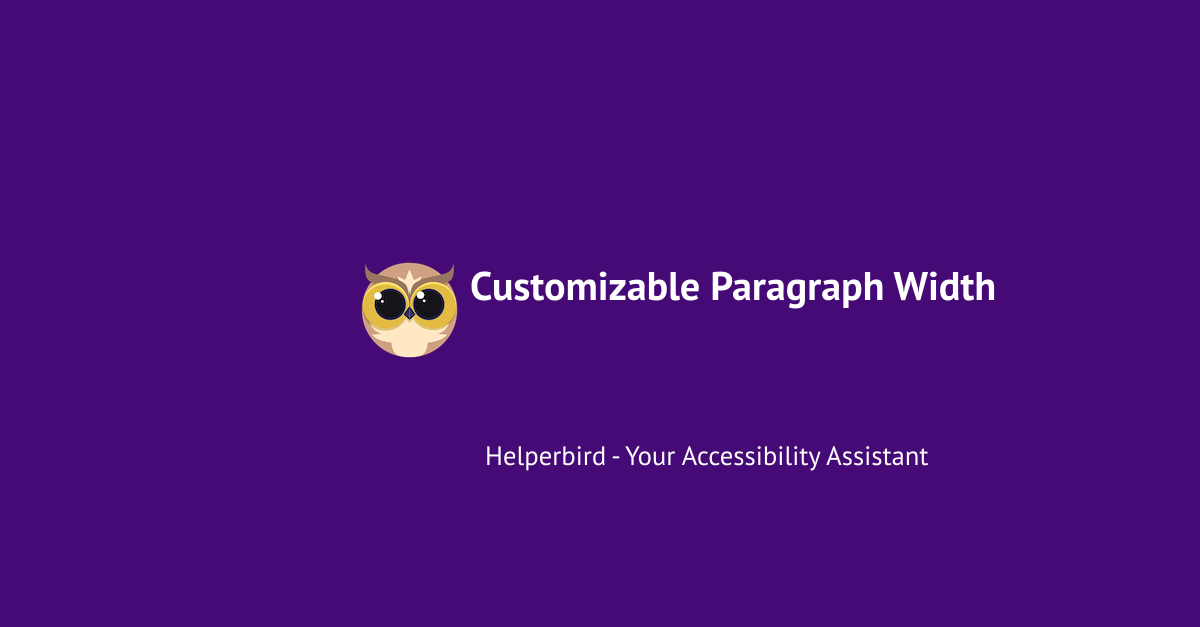
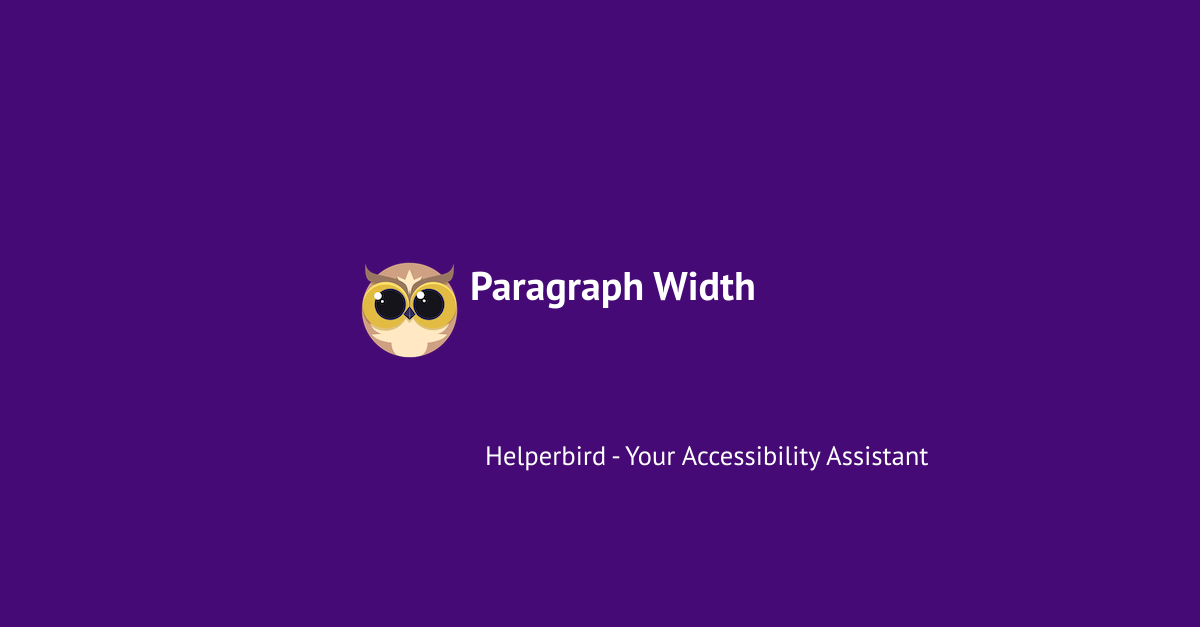
Deploying to gh-pages from  @ 452da89fd4ff60e3438203d6a54f587d20e65d37 🚀

Changed region(s): [[0.37, 0.4242, 0.8325, 0.4848]]

diff --git a/features/paragraph-widths/index.html b/features/paragraph-widths/index.html
@@ -4,7 +4,7 @@
   <head>
     <meta charset="utf-8" />
     <meta content="width=device-width, initial-scale=1.0" name="viewport" />
-    <title>Custom Paragraph Width for Better Reading - Helperbird features</title>
+    <title>Custom Paragraph Width for Comfortable Reading - Helperbird features</title>
     <link href="/assets/js/main.css" rel="stylesheet" />
     <script>
       if ('serviceWorker' in navigator) {
@@ -13,24 +13,24 @@
     </script>
 
     <link href="https://www.helperbird.com/features/paragraph-widths/" rel="canonical" />
-    <meta content="Adjust the width of paragraphs for better focus and readability with Helperbird's Customizable Paragraph Width feature. Tailor the text layout to your preferences, reducing eye strain during extended reading sessions on websites and PDFs." name="description" />
+    <meta content="Easily adjust the width of paragraphs with Helperbird's feature. Improve readability and reduce eye strain on websites and PDFs by customizing text layout to your needs." name="description" />
     <meta content="Dyslexia software, Reading Mode for Google Chrome, Voice typing for Chrome, Text to speech for Chrome, text reader, Immersive Reader, dyslexia fonts, accessibility software, dyslexia software, Helperbird for Edge, Helperbird for Firefox, Helperbird for Chrome, Opendyslexic for Chrome, OpenDyslexic" name="keywords" />
 
     <meta name="viewport" content="width=device-width, initial-scale=1, shrink-to-fit=no" />
     <meta content="/assets/images/favicon.png" name="image" />
     <meta content="#5046e4" name="theme-color" />
     <meta content="Helperbird" itemprop="name" />
-    <meta content="Adjust the width of paragraphs for better focus and readability with Helperbird's Customizable Paragraph Width feature. Tailor the text layout to your preferences, reducing eye strain during extended reading sessions on websites and PDFs." itemprop="description" />
+    <meta content="Easily adjust the width of paragraphs with Helperbird's feature. Improve readability and reduce eye strain on websites and PDFs by customizing text layout to your needs." itemprop="description" />
     <meta content="/assets/images/favicon.png" itemprop="image" />
 
     <meta name="twitter:card" content="summary_large_image" />
     <meta name="twitter:site" content="@helperbird" />
     <meta name="twitter:creator" content="@robertjgabriel" />
-    <meta name="twitter:title" content="Custom Paragraph Width for Better Reading - Helperbird" />
+    <meta name="twitter:title" content="Custom Paragraph Width for Comfortable Reading - Helperbird" />
     <meta property="twitter:domain" content="helperbird.com" />
 
     <meta property="twitter:url" content="https://www.helperbird.com/features/paragraph-widths/" />
-    <meta name="twitter:description" content="Adjust the width of paragraphs for better focus and readability with Helperbird's Customizable Paragraph Width feature. Tailor the text layout to your preferences, reducing eye strain during extended reading sessions on websites and PDFs." />
+    <meta name="twitter:description" content="Easily adjust the width of paragraphs with Helperbird's feature. Improve readability and reduce eye strain on websites and PDFs by customizing text layout to your needs." />
 
     <meta name="twitter:image:alt" content="Helperbird promo art with text saying visit Helperbird" />
     <meta name="twitter:image" content="https://www.helperbird.com/features/paragraph-widths/index.png" />
@@ -39,8 +39,8 @@
 
     <meta property="og:locale" content="en_US" />
     <meta property="og:type" content="website" />
-    <meta property="og:title" content="Custom Paragraph Width for Better Reading - Helperbird" />
-    <meta property="og:description" content="Adjust the width of paragraphs for better focus and readability with Helperbird's Customizable Paragraph Width feature. Tailor the text layout to your preferences, reducing eye strain during extended reading sessions on websites and PDFs." />
+    <meta property="og:title" content="Custom Paragraph Width for Comfortable Reading - Helperbird" />
+    <meta property="og:description" content="Easily adjust the width of paragraphs with Helperbird's feature. Improve readability and reduce eye strain on websites and PDFs by customizing text layout to your needs." />
     <meta property="og:url" content="https://www.helperbird.com/features/paragraph-widths/" />
     <meta property="og:site_name" content="Helperbird" />
     <meta property="og:image" content="https://www.helperbird.com/features/paragraph-widths/index.png" />
@@ -2060,9 +2060,9 @@
 
       <div class="rounded-2xl text-black py-24 sm:py-32 sm:py-16 lg:px-4 mb-4">
         <div class="mx-auto max-w-4xl text-center">
-          <h1 class="leading-relaxed font-sans text-4xl font-bold text-black sm:text-6xl">Custom Paragraph Width for Better Reading</h1>
+          <h1 class="leading-relaxed font-sans text-4xl font-bold text-black sm:text-6xl">Custom Paragraph Width for Comfortable Reading</h1>
           <p class="leading-relaxed font-sans mt-6 text-2xl text-black">
-            Adjust the width of paragraphs for better focus and readability with Helperbird's Customizable Paragraph Width feature. Tailor the text layout to your preferences, reducing eye strain during extended reading sessions on websites and PDFs.
+            Easily adjust the width of paragraphs with Helperbird's feature. Improve readability and reduce eye strain on websites and PDFs by customizing text layout to your needs.
           </p>
           <div class="mt-10 flex items-center justify-center gap-x-6">
 
@@ -2105,8 +2105,8 @@
 
           <div class="px-6 py-24 sm:py-32 lg:px-8 mb-12">
             <div class="mx-auto max-w-2xl text-center">
-              <h2 class="text-3xl font-bold text-black sm:text-4xl">Customizable Paragraph Width</h2>
-              <p class="mt-6 text-2xl  text-black">Adjust the width of paragraphs for better focus and readability with Helperbird's Customizable Paragraph Width feature. Tailor the text layout to your preferences, reducing eye strain during extended reading sessions on websites and PDFs.</p>
+              <h2 class="text-3xl font-bold text-black sm:text-4xl">Paragraph Width</h2>
+              <p class="mt-6 text-2xl  text-black">Easily adjust the width of paragraphs with Helperbird's feature. Improve readability and reduce eye strain on websites and PDFs by customizing text layout to your needs.</p>
             </div>
           </div>
 
@@ -2117,33 +2117,27 @@
                 <div class="lg:max-w-lg text-black">
 
               
-                  <h2 class="leading-relaxed font-display text-2xl mb-6 mt-12 font-semibold text-gray-800">Tell Me About This feature</h2>
-<p class="leading-relaxed font-display mb-4 mt-4 text-lg text-gray-900">Enhance your reading experience with Helperbird's paragraph width setting feature.</p>
-<p class="leading-relaxed font-display mb-4 mt-4 text-lg text-gray-900">Easily adjust the width of paragraphs on PDFs and websites to fit your screen and personal preference.</p>
-<p class="leading-relaxed font-display mb-4 mt-4 text-lg text-gray-900">Improve readability and reduce eye strain with our user-friendly browser extension.</p>
+                  <h2 class="leading-relaxed font-display text-2xl mb-6 mt-12 font-semibold text-gray-800">About This Feature</h2>
+<p class="leading-relaxed font-display mb-4 mt-4 text-lg text-gray-900">Helperbird's Paragraph Width feature lets you easily adjust the width of paragraphs on websites and PDFs. Make the text fit your screen and personal preferences for a better reading experience.</p>
 <h2 class="leading-relaxed font-display text-2xl mb-6 mt-12 font-semibold text-gray-800">Benefits</h2>
-<p class="leading-relaxed font-display mb-4 mt-4 text-lg text-gray-900">The benefits of Helperbird's paragraph width setting feature are:</p>
-<h3 class="leading-relaxed font-display text-xl mb-4 mt-10 font-semibold text-gray-700">Adjust the width of paragraphs</h3>
-<p class="leading-relaxed font-display mb-4 mt-4 text-lg text-gray-900">It allows users to adjust the width of paragraphs on PDFs and websites to fit their screen and personal preference.</p>
-<h3 class="leading-relaxed font-display text-xl mb-4 mt-10 font-semibold text-gray-700">Improve readability</h3>
-<p class="leading-relaxed font-display mb-4 mt-4 text-lg text-gray-900">It improves readability by making text more legible and comfortable to read.</p>
-<h3 class="leading-relaxed font-display text-xl mb-4 mt-10 font-semibold text-gray-700">Reduce eye strain</h3>
-<p class="leading-relaxed font-display mb-4 mt-4 text-lg text-gray-900">It reduces eye strain and fatigue by allowing users to adjust the width of text to their preference.</p>
+<h3 class="leading-relaxed font-display text-xl mb-4 mt-10 font-semibold text-gray-700">Adjust Paragraph Width</h3>
+<p class="leading-relaxed font-display mb-4 mt-4 text-lg text-gray-900">Change the width of paragraphs to fit your screen and personal preference.</p>
+<h3 class="leading-relaxed font-display text-xl mb-4 mt-10 font-semibold text-gray-700">Improve Readability</h3>
+<p class="leading-relaxed font-display mb-4 mt-4 text-lg text-gray-900">Make text more comfortable to read by adjusting its width.</p>
+<h3 class="leading-relaxed font-display text-xl mb-4 mt-10 font-semibold text-gray-700">Reduce Eye Strain</h3>
+<p class="leading-relaxed font-display mb-4 mt-4 text-lg text-gray-900">Lower eye strain and fatigue by customizing text width to your liking.</p>
 <h2 class="leading-relaxed font-display text-2xl mb-6 mt-12 font-semibold text-gray-800">Features</h2>
 <ul class="leading-relaxed list-disc list-inside mt-4 space-y-2 pl-6 text-lg font-display ml-6 mb-8 text-gray-900">
-<li class="leading-relaxed mb-2 text-lg font-display text-gray-900 flex items-center">Adjust the width of paragraphs on PDFs and websites.</li>
+<li class="leading-relaxed mb-2 text-lg font-display text-gray-900 flex items-center">Adjust the width of paragraphs on websites and PDFs.</li>
 <li class="leading-relaxed mb-2 text-lg font-display text-gray-900 flex items-center">Set the width of paragraphs to fit your screen.</li>
-<li class="leading-relaxed mb-2 text-lg font-display text-gray-900 flex items-center">Pick the color of the paragraph background.</li>
-<li class="leading-relaxed mb-2 text-lg font-display text-gray-900 flex items-center">Pick the color of the paragraph text.</li>
-<li class="leading-relaxed mb-2 text-lg font-display text-gray-900 flex items-center">Pick the color of the paragraph border.</li>
+<li class="leading-relaxed mb-2 text-lg font-display text-gray-900 flex items-center">Choose the color of the paragraph background.</li>
+<li class="leading-relaxed mb-2 text-lg font-display text-gray-900 flex items-center">Choose the color of the paragraph text.</li>
+<li class="leading-relaxed mb-2 text-lg font-display text-gray-900 flex items-center">Choose the color of the paragraph border.</li>
 </ul>
-<h2 class="leading-relaxed font-display text-2xl mb-6 mt-12 font-semibold text-gray-800">Is this a Helperbird Pro feature?</h2>
+<h2 class="leading-relaxed font-display text-2xl mb-6 mt-12 font-semibold text-gray-800">Is This a Helperbird Pro Feature?</h2>
 <p class="leading-relaxed font-display mb-4 mt-4 text-lg text-gray-900">Yes, this is a Helperbird Pro feature.</p>
-<p class="leading-relaxed font-display mb-4 mt-4 text-lg text-gray-900">Wait no more! Here comes the Helperbird paragraph width. It automatically converts big text blocks in websites into columns, which are easier and more relaxed to read.</p>
-<h2 class="leading-relaxed font-display text-2xl mb-6 mt-12 font-semibold text-gray-800">Tell me more about this feature</h2>
-<p class="leading-relaxed font-display mb-4 mt-4 text-lg text-gray-900">Wait no more! Here comes the Helperbird paragraph width. It automatically converts big text blocks in websites into columns, which are easier and more relaxed to read.</p>
-<h2 class="leading-relaxed font-display text-2xl mb-6 mt-12 font-semibold text-gray-800">Features</h2>
-<p class="leading-relaxed font-display mb-4 mt-4 text-lg text-gray-900">Control the width of the paragraphs on a page</p>
+<h2 class="leading-relaxed font-display text-2xl mb-6 mt-12 font-semibold text-gray-800">More About This Feature</h2>
+<p class="leading-relaxed font-display mb-4 mt-4 text-lg text-gray-900">Helperbird's Paragraph Width feature makes big blocks of text easier to read by converting them into narrower columns. This simple adjustment helps you read more comfortably and reduces eye strain.</p>
 
 
                 </div>

diff --git a/service-worker.js b/service-worker.js
@@ -1784,7 +1784,7 @@ self.__precacheManifest = [
   },
   {
     "url": "extension/index.html",
-    "revision": "4779efc388481cbe618f2099717c82dd"
+    "revision": "12a70e79dbfd0f57feb7550a1eb6b404"
   },
   {
     "url": "extension/index.png",
@@ -1936,7 +1936,7 @@ self.__precacheManifest = [
   },
   {
     "url": "features/index.html",
-    "revision": "64a17fb989fe5c72bc8bfba4ef2df246"
+    "revision": "27d6f51a9c0a4e2505105150fcb2d4be"
   },
   {
     "url": "features/index.png",
@@ -1976,11 +1976,11 @@ self.__precacheManifest = [
   },
   {
     "url": "features/paragraph-widths/index.html",
-    "revision": "40ceb6e64a9b2d2ad246e793c8ee0182"
+    "revision": "ec84b5b1814eca9a1e95607003cebedf"
   },
   {
     "url": "features/paragraph-widths/index.png",
-    "revision": "926af7398acd9f44a7b221352c1014b3"
+    "revision": "72d9cf91ce9ce12f9fa6ecb75bd3faac"
   },
   {
     "url": "features/pdfs/index.html",
@@ -2920,7 +2920,7 @@ self.__precacheManifest = [
   },
   {
     "url": "index.html",
-    "revision": "0e840e7264283f902372a3cb06989e3b"
+    "revision": "7e1023ed3300349d7b3679bf263eecae"
   },
   {
     "url": "index.png",
@@ -3028,7 +3028,7 @@ self.__precacheManifest = [
   },
   {
     "url": "products/chrome/index.html",
-    "revision": "3ad94347ca4bb9524d29266fa6578b14"
+    "revision": "8c63ab3b1cc5017113eebd69b355b1ce"
   },
   {
     "url": "products/chrome/index.png",
@@ -3036,7 +3036,7 @@ self.__precacheManifest = [
   },
   {
     "url": "products/edge/index.html",
-    "revision": "5f8ac7313043c7bb4c7d9e5d893c5227"
+    "revision": "31ddd27c9f8d7f9f342835269d53f6fa"
   },
   {
     "url": "products/edge/index.png",
@@ -3044,7 +3044,7 @@ self.__precacheManifest = [
   },
   {
     "url": "products/firefox/index.html",
-    "revision": "8b6d13b00e43f46c081e207b29cbc364"
+    "revision": "e34ce6bf087d4d04c832f2aa8bd3ec01"
   },
   {
     "url": "products/firefox/index.png",
@@ -3060,7 +3060,7 @@ self.__precacheManifest = [
   },
   {
     "url": "products/ipad/index.html",
-    "revision": "f5718f4707b8452129b6713274c363e5"
+    "revision": "ac49fe89df731b24272e037ded56277c"
   },
   {
     "url": "products/ipad/index.png",
@@ -3116,7 +3116,7 @@ self.__precacheManifest = [
   },
   {
     "url": "sitemap/index.html",
-    "revision": "6e7d7c5b9c22cb329e70b46df98fd907"
+    "revision": "5cd4cc651d0219f4ab8f80707a2d00b9"
   },
   {
     "url": "sitemap/index.png",

diff --git a/features/index.html b/features/index.html
@@ -2453,18 +2453,18 @@
     <path data-v-c54789cc="" stroke-linecap="round" stroke-linejoin="round" stroke-width="2" d="M9 17V7m0 10a2 2 0 01-2 2H5a2 2 0 01-2-2V7a2 2 0 012-2h2a2 2 0 012 2m0 10a2 2 0 002 2h2a2 2 0 002-2M9 7a2 2 0 012-2h2a2 2 0 012 2m0 10V7m0 10a2 2 0 002 2h2a2 2 0 002-2V7a2 2 0 00-2-2h-2a2 2 0 00-2 2"/>
 </svg>
             </div>
-            <h2 class="leading-relaxed font-sans  mt-5 text-xl  font-semibold text-black">	Customizable Paragraph Width
+            <h2 class="leading-relaxed font-sans  mt-5 text-xl  font-semibold text-black">	Paragraph Width
 
             </h2>
           </dt>
-          <dd class="mt-2 text-base text-black line-clamp-3">	Adjust the width of paragraphs for better focus and readability with Helperbird's Customizable Paragraph Width feature. Tailor the text layout to your preferences, reducing eye strain during extended reading sessions on websites and PDFs.
+          <dd class="mt-2 text-base text-black line-clamp-3">	Easily adjust the width of paragraphs with Helperbird's feature. Improve readability and reduce eye strain on websites and PDFs by customizing text layout to your needs.
           </dd>
 		  <div class="mt-4 mb-4 flex items-center gap-x-4">
 			<a
 				class="btn-base btn btn-secondary shadow-md"
 				href="/features/paragraph-widths/"
-				aria-label="More information on feature Customizable Paragraph Width"
-				title="More information on feature Customizable Paragraph Width"
+				aria-label="More information on feature Paragraph Width"
+				title="More information on feature Paragraph Width"
 				>Discover more</a
 			>
 			</div>

diff --git a/sitemap/index.html b/sitemap/index.html
@@ -5914,21 +5914,21 @@
 
           <div>
 
-          <a href="/features/paragraph-widths/" class="leading-relaxed font-sans text-blue-600 hover:decoration-wavy hover:underline text-xl font-bold" title="Custom Paragraph Width for Better Reading">
-            Custom Paragraph Width for Better Reading
+          <a href="/features/paragraph-widths/" class="leading-relaxed font-sans text-blue-600 hover:decoration-wavy hover:underline text-xl font-bold" title="Custom Paragraph Width for Comfortable Reading">
+            Custom Paragraph Width for Comfortable Reading
           </a>
           
 
 
             <p class="leading-relaxed font-sans  mt-5  text-base text-black mb-5 line-clamp-3">
-              Adjust the width of paragraphs for better focus and readability with Helperbird's Customizable Paragraph Width feature. Tailor the text layout to your preferences, reducing eye strain during extended reading sessions on websites and PDFs.
+              Easily adjust the width of paragraphs with Helperbird's feature. Improve readability and reduce eye strain on websites and PDFs by customizing text layout to your needs.
             </p>
 
 
             <div class="mt-3">
               <a
                 href="/features/paragraph-widths/"
-                title="Custom Paragraph Width for Better Reading"
+                title="Custom Paragraph Width for Comfortable Reading"
                 class="btn-sm btn-outline btn  rounded-xl shadow-md ">
                 Visit
               </a>

diff --git a/index.html b/index.html
@@ -2931,19 +2931,19 @@ Whether you're reading a movie review or writing an email, Helperbird can make w
 </svg>
 					</div>
 					<h3 class="leading-relaxed font-sans mt-5 text-lg font-semibold text-black">
-						Customizable Paragraph Width
+						Paragraph Width
 					</h3>
 
 					<p class=" line-clamp-3 font-sans text-base leading-relaxed my-4 text-black">
-						Adjust the width of paragraphs for better focus and readability with Helperbird's Customizable Paragraph Width feature. Tailor the text layout to your preferences, reducing eye strain during extended reading sessions on websites and PDFs.
+						Easily adjust the width of paragraphs with Helperbird's feature. Improve readability and reduce eye strain on websites and PDFs by customizing text layout to your needs.
 					</p>
 
 					<div class="mt-4 flex items-center gap-x-4">
 						<a
 						class="btn-base btn btn-secondary shadow-md"
 						href="/features/paragraph-widths/"
-						aria-label="More information on feature Customizable Paragraph Width"
-						title="More information on feature Customizable Paragraph Width"
+						aria-label="More information on feature Paragraph Width"
+						title="More information on feature Paragraph Width"
 					  >Read more</a>
 					  
 					</div>

diff --git a/products/ipad/index.html b/products/ipad/index.html
@@ -2798,19 +2798,19 @@
 </svg>
 						</div>
 						<h3 class="leading-relaxed font-sans mt-5 text-lg font-semibold text-black">
-							Customizable Paragraph Width
+							Paragraph Width
 						</h3>
 
 						<p class=" line-clamp-3 font-sans text-base leading-relaxed my-4 text-black">
-							Adjust the width of paragraphs for better focus and readability with Helperbird's Customizable Paragraph Width feature. Tailor the text layout to your preferences, reducing eye strain during extended reading sessions on websites and PDFs.
+							Easily adjust the width of paragraphs with Helperbird's feature. Improve readability and reduce eye strain on websites and PDFs by customizing text layout to your needs.
 						</p>
 
 						<div class="mt-4 flex items-center gap-x-4">
 							<a
 							class="btn-base btn btn-secondary shadow-md"
 							href="/features/paragraph-widths/"
-							aria-label="More information on feature Customizable Paragraph Width"
-							title="Discover more about feature Customizable Paragraph Width"
+							aria-label="More information on feature Paragraph Width"
+							title="Discover more about feature Paragraph Width"
 						  >Discover more</a>
 						  
 						</div>

diff --git a/extension/index.html b/extension/index.html
@@ -2859,19 +2859,19 @@
 </svg>
 					</div>
 					<h3 class="leading-relaxed font-sans mt-5 text-lg font-semibold text-black">
-						Customizable Paragraph Width
+						Paragraph Width
 					</h3>
 
 					<p class=" line-clamp-3 font-sans text-base leading-relaxed my-4 text-black">
-						Adjust the width of paragraphs for better focus and readability with Helperbird's Customizable Paragraph Width feature. Tailor the text layout to your preferences, reducing eye strain during extended reading sessions on websites and PDFs.
+						Easily adjust the width of paragraphs with Helperbird's feature. Improve readability and reduce eye strain on websites and PDFs by customizing text layout to your needs.
 					</p>
 
 					<div class="mt-4 flex items-center gap-x-4">
 						<a
 						class="btn-base btn btn-secondary shadow-md"
 						href="/features/paragraph-widths/"
-						aria-label="More information on feature Customizable Paragraph Width"
-						title="More information on feature Customizable Paragraph Width"
+						aria-label="More information on feature Paragraph Width"
+						title="More information on feature Paragraph Width"
 					  >Read more</a>
 					  
 					</div>

diff --git a/products/chrome/index.html b/products/chrome/index.html
@@ -2851,19 +2851,19 @@
 </svg>
 					</div>
 					<h3 class="leading-relaxed font-sans mt-5 text-lg font-semibold text-black">
-						Customizable Paragraph Width
+						Paragraph Width
 					</h3>
 
 					<p class=" line-clamp-3 font-sans text-base leading-relaxed my-4 text-black">
-						Adjust the width of paragraphs for better focus and readability with Helperbird's Customizable Paragraph Width feature. Tailor the text layout to your preferences, reducing eye strain during extended reading sessions on websites and PDFs.
+						Easily adjust the width of paragraphs with Helperbird's feature. Improve readability and reduce eye strain on websites and PDFs by customizing text layout to your needs.
 					</p>
 
 					<div class="mt-4 flex items-center gap-x-4">
 						<a
 						class="btn-base btn btn-secondary shadow-md"
 						href="/features/paragraph-widths/"
-						aria-label="More information on feature Customizable Paragraph Width"
-						title="More information on feature Customizable Paragraph Width"
+						aria-label="More information on feature Paragraph Width"
+						title="More information on feature Paragraph Width"
 					  >Read more</a>
 					  
 					</div>

diff --git a/products/edge/index.html b/products/edge/index.html
@@ -2853,19 +2853,19 @@
 </svg>
 					</div>
 					<h3 class="leading-relaxed font-sans mt-5 text-lg font-semibold text-black">
-						Customizable Paragraph Width
+						Paragraph Width
 					</h3>
 
 					<p class=" line-clamp-3 font-sans text-base leading-relaxed my-4 text-black">
-						Adjust the width of paragraphs for better focus and readability with Helperbird's Customizable Paragraph Width feature. Tailor the text layout to your preferences, reducing eye strain during extended reading sessions on websites and PDFs.
+						Easily adjust the width of paragraphs with Helperbird's feature. Improve readability and reduce eye strain on websites and PDFs by customizing text layout to your needs.
 					</p>
 
 					<div class="mt-4 flex items-center gap-x-4">
 						<a
 						class="btn-base btn btn-secondary shadow-md"
 						href="/features/paragraph-widths/"
-						aria-label="More information on feature Customizable Paragraph Width"
-						title="More information on feature Customizable Paragraph Width"
+						aria-label="More information on feature Paragraph Width"
+						title="More information on feature Paragraph Width"
 					  >Read more</a>
 					  
 					</div>

diff --git a/products/firefox/index.html b/products/firefox/index.html
@@ -2851,19 +2851,19 @@
 </svg>
 					</div>
 					<h3 class="leading-relaxed font-sans mt-5 text-lg font-semibold text-black">
-						Customizable Paragraph Width
+						Paragraph Width
 					</h3>
 
 					<p class=" line-clamp-3 font-sans text-base leading-relaxed my-4 text-black">
-						Adjust the width of paragraphs for better focus and readability with Helperbird's Customizable Paragraph Width feature. Tailor the text layout to your preferences, reducing eye strain during extended reading sessions on websites and PDFs.
+						Easily adjust the width of paragraphs with Helperbird's feature. Improve readability and reduce eye strain on websites and PDFs by customizing text layout to your needs.
 					</p>
 
 					<div class="mt-4 flex items-center gap-x-4">
 						<a
 						class="btn-base btn btn-secondary shadow-md"
 						href="/features/paragraph-widths/"
-						aria-label="More information on feature Customizable Paragraph Width"
-						title="More information on feature Customizable Paragraph Width"
+						aria-label="More information on feature Paragraph Width"
+						title="More information on feature Paragraph Width"
 					  >Read more</a>
 					  
 					</div>
